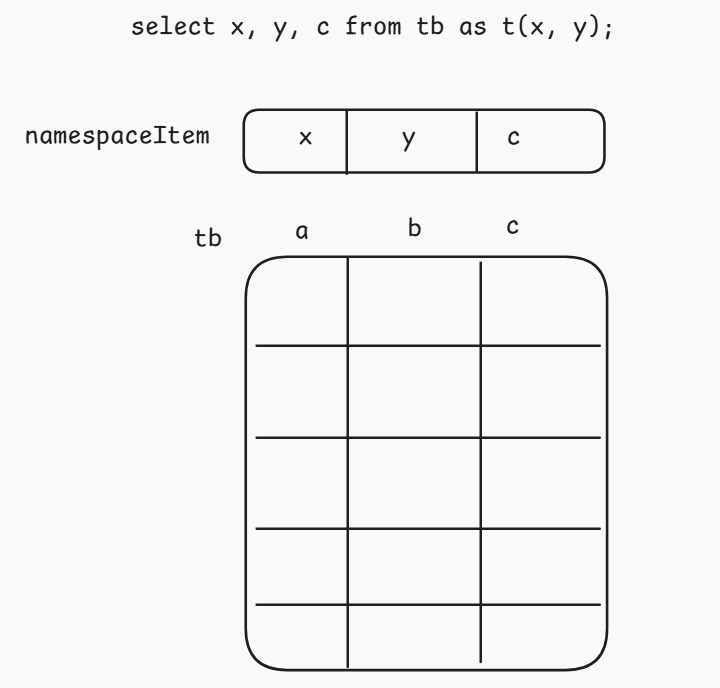
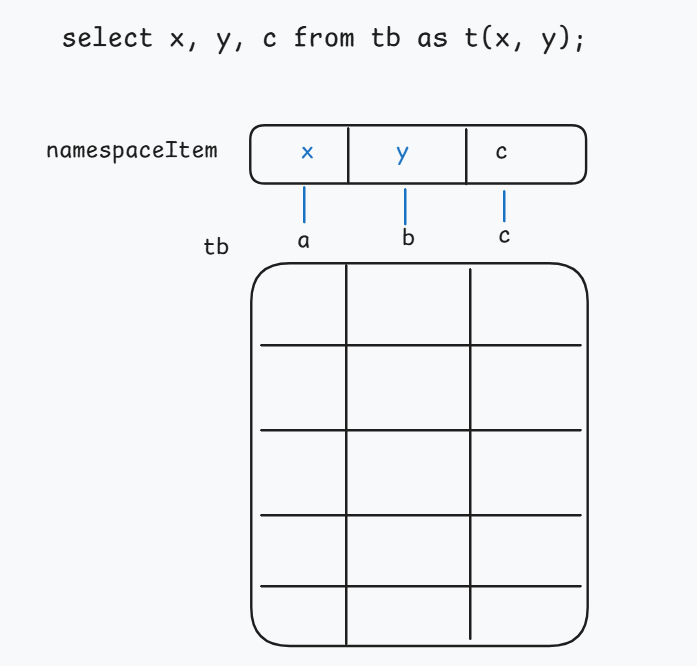
update namespace

Changed region(s): [[0.0301, 0.1502, 0.8436, 0.991], [0.0904, 0.03, 0.8436, 0.0901], [0.2712, 0.3303, 0.3314, 0.3904]]

diff --git a/QueryProcess/assets/draw.md b/QueryProcess/assets/draw.md
@@ -1,0 +1,175 @@
+---
+
+excalidraw-plugin: parsed
+tags: [excalidraw]
+
+---
+==⚠  Switch to EXCALIDRAW VIEW in the MORE OPTIONS menu of this document. ⚠== You can decompress Drawing data with the command palette: 'Decompress current Excalidraw file'. For more info check in plugin settings under 'Saving'
+
+
+# Excalidraw Data
+
+## Text Elements
+static CatCache *SysCache[SysCacheSize]; ^vNevHch6
+
+enum SysCacheIdentifier
+{
+        AGGFNOID = 0,
+        AMNAME,
+        AMOID,
+        AMOPOPID,
+        AMOPSTRATEGY,
+        /* ... */
+        RELNAMENSP,
+        /* ... */
+        USERMAPPINGUSERSERVER
+#define SysCacheSize (USERMAPPINGUSERSERVER + 1)
+} ^zz5waZaw
+
+SysCache ^ooqIWHim
+
+CatCache* ^Ow5oN2Af
+
+CatCache* ^8pnND7Ip
+
+CatCache* ^9l5Nk7F2
+
+CatCache* ^yYR6lzZi
+
+select x, y, c from tb as t(x, y); ^5LIFEzfT
+
+a ^TpkQMPF4
+
+b ^jTXATW9G
+
+c ^nvDmppSY
+
+tb ^Yov0eIUy
+
+x ^V2FJyK2p
+
+y ^rpFXaX5s
+
+c ^kiQ9Z04M
+
+namespaceItem ^QTrdsSpx
+
+## Embedded Files
+67534d2cbd1ad6002ba4d090b6814bc4940b4273: [[../../SysCache.png]]
+
+%%
+## Drawing
+```compressed-json
[1 lines of base64/hex data omitted]
+
[1 lines of base64/hex data omitted]
+
[1 lines of base64/hex data omitted]
+
[1 lines of base64/hex data omitted]
+
[1 lines of base64/hex data omitted]
+
[1 lines of base64/hex data omitted]
+
[1 lines of base64/hex data omitted]
+
[1 lines of base64/hex data omitted]
+
[1 lines of base64/hex data omitted]
+
[1 lines of base64/hex data omitted]
+
[1 lines of base64/hex data omitted]
+
[1 lines of base64/hex data omitted]
+
[1 lines of base64/hex data omitted]
+
[1 lines of base64/hex data omitted]
+
[1 lines of base64/hex data omitted]
+
[1 lines of base64/hex data omitted]
+
[1 lines of base64/hex data omitted]
+
[1 lines of base64/hex data omitted]
+
[1 lines of base64/hex data omitted]
+
[1 lines of base64/hex data omitted]
+
[1 lines of base64/hex data omitted]
+
[1 lines of base64/hex data omitted]
+
[1 lines of base64/hex data omitted]
+
[1 lines of base64/hex data omitted]
+
[1 lines of base64/hex data omitted]
+
[1 lines of base64/hex data omitted]
+
[1 lines of base64/hex data omitted]
+
[1 lines of base64/hex data omitted]
+
[1 lines of base64/hex data omitted]
+
[1 lines of base64/hex data omitted]
+
[1 lines of base64/hex data omitted]
+
[1 lines of base64/hex data omitted]
+
[1 lines of base64/hex data omitted]
+
[1 lines of base64/hex data omitted]
+
[1 lines of base64/hex data omitted]
+
[1 lines of base64/hex data omitted]
+
[1 lines of base64/hex data omitted]
+
[1 lines of base64/hex data omitted]
+
[1 lines of base64/hex data omitted]
+
[1 lines of base64/hex data omitted]
+
[1 lines of base64/hex data omitted]
+
[1 lines of base64/hex data omitted]
+
[1 lines of base64/hex data omitted]
+
[1 lines of base64/hex data omitted]
+
[1 lines of base64/hex data omitted]
+
[1 lines of base64/hex data omitted]
+
[1 lines of base64/hex data omitted]
+
[1 lines of base64/hex data omitted]
+
[1 lines of base64/hex data omitted]
+
[1 lines of base64/hex data omitted]
+
[1 lines of base64/hex data omitted]
+
[1 lines of base64/hex data omitted]
+
[1 lines of base64/hex data omitted]
+
[1 lines of base64/hex data omitted]
+
[1 lines of base64/hex data omitted]
+
[1 lines of base64/hex data omitted]
+```
+%%

diff --git a/QueryProcess/2_Analyzer.md b/QueryProcess/2_Analyzer.md
@@ -259,7 +259,7 @@ RangeVarGetRelidExtended
 
 ### 系统表缓存 `SysCache`
 
-![](SysCache.png)
+![](../assets/QueryProcess/SysCache%201.png)
 
 > https://cloud.tencent.com/developer/article/2000765?from_column=20421&from=20421
 
@@ -275,58 +275,27 @@ RangeVarGetRelidExtended
 
 在 PostgreSQL 中，这两种方式分别对应 **“投影别名”** 和 **“数据源别名”**。
 
-| 方式 | 语法示例 | 生效阶段 | 核心作用 |
-| --- | --- | --- | --- |
-| **投影别名** | `select a AS x ...` | **输出层** (Output) | **修饰性**：主要为了改变最终结果集的抬头，或者给表达式（如 `a+b`）取名。 |
-| **数据源别名** | `FROM tb AS t(x, y)` | **输入层** (Input) | **结构性**：在数据进入查询树时，就彻底重定义了该表的逻辑结构。 |
+| 方式        | 语法示例                 | 生效阶段             | 核心作用             |
+| --------- | -------------------- | ---------------- | ---------------- |
+| **投影别名**  | `select a AS x ...`  | **输出层** (Output) | **修饰性**：重命名输出列   |
+| **数据源别名** | `FROM tb AS t(x, y)` | **输入层** (Input)  | **结构性**：重定义表结构标识 |
 
-### 为什么需要数据源别名
+### 为什么需要数据源别名?
 
-尽管第一种方式（投影别名）看起来更直观，但在处理复杂逻辑时，第二种方式（数据源别名）具有不可替代的优势：
-
-1. **解决“无名数据”的定义问题**
-
-这是最核心的需求。对于 `VALUES` 子句、解构函数（如 `unnest`）或子查询，它们产生的数据往往没有物理列名。
-
-* 投影别名：无法在数据源处定义名称，导致 `WHERE` 或 `JOIN` 子句无法引用这些列。
-* 数据源别名：在 `FROM` 处直接给这些匿名列封装为表的形式，让整个查询块都能合法引用它们。
-
-一下两种场景必须使用数据源别名
+1. 解决“无名数据”的定义问题
 
 ```sql
 select a from (values (1), (2), (3)) as tb(a) where a < 3;
-
-select * FROM unnest(array[1, 2, 3]) AS t(val) WHERE val > 1;
 ```
 
-2. **实现“逻辑与物理”的解耦（位置绑定）**
-
-* 投影别名：是基于名字的。如果底层表字段从 `a` 改名为 `a_new`，你必须修改 `select a_new AS x`。
-* 数据源别名：是基于位置的。`t(x, y)` 永远绑定该表的第 1 列和第 2 列。SQL无需变化。
-
-3. **简化复杂查询的引用**
-
-* 投影别名：在标准 SQL 中，`select` 里的别名通常不能在同级的 `WHERE` 中直接使用，因为 `WHERE` 的执行早于 `select`。
-* 数据源别名：由于在 `FROM` 阶段就完成了定义，别名 `x, y` 在后续所有的 `WHERE`、`JOIN`、`GROUP BY` 中都是全局可见的“真名”。
+2. 简化复杂查询的引用
 
 ```sql
-select a as x, b as y, c from tb as t where x < 3; -- 失败
 select x, y  from tb2 as t(x, y) where x < 3;
 ```
 
-4. **内核处理的一致性 (buildNSItem)**
-
-在内核底层，`AS t(x, y)` 会直接驱动 `buildNSItemFromTupleDesc` 创建一个**完整的逻辑视图**。
-
-* 如果使用方式一，内核需要维护一套复杂的“别名追踪机制”来确保 `ORDER BY` 能找到 `select` 里的 `x`。
-* 如果使用方式二，内核直接把 `x` 存入 `NSItem` 的逻辑入口。对解析器来说，`x` 就是这列的“本名”，处理起来路径更短、性能更高。
-
-5. **局限性**
-
-不适用超宽表的部分列起别名，如1000列的表要为第800列其别名，按位置绑定时只能前八百列都起名占位，此时用`a as x`更好。
-
-![400](assets/namespaceitem.png)
-
+3. 表结构标识重命名
+![500](assets/NamespaceItem.png)
 ## 分析列名 `select a, b`
 
 `qry->targetList = transformTargetList`
@@ -386,3 +355,13 @@ transformWhereClause
 2. 核心结构：`Query` 
 
 -->
+
+- 用户写下 **`RangeVar`**（语法层）。
+    
+- 内核为其创建 **`RTE`**（逻辑层），并生成 **`NSItem`**（语义搜索层）作为对外窗口。
+    
+- 用户引用一列，解析器通过 **`NSItem`** 找到它，并构建一个 **`Var`**（原语层）。
+    
+- 这个 **`Var`** 被塞进一个 **`TargetEntry`**，告诉数据库：这是我要的一列。
+    
+- 执行器启动，将物理行装入 **`TupleTableSlot`**，**`Var`** 根据偏移量从中抠出值，完成最终输出。

diff --git a/compile.md b/compile.md
@@ -26,7 +26,7 @@ git checkout REL_16_11
 cd postgres
 mkdir build && cd build
 CFLAGS="-O0 -g3 -fno-inline -fno-omit-frame-pointer" \
-../configure  --prefix=$HOME/app/pgdebug --without-icu --enable-debug --enable-cassert
+../configure  --prefix=$HOME/app/pgdebug --without-icu --with-libxml --enable-debug --enable-cassert
 make -j4
 make install
 # make distclean
